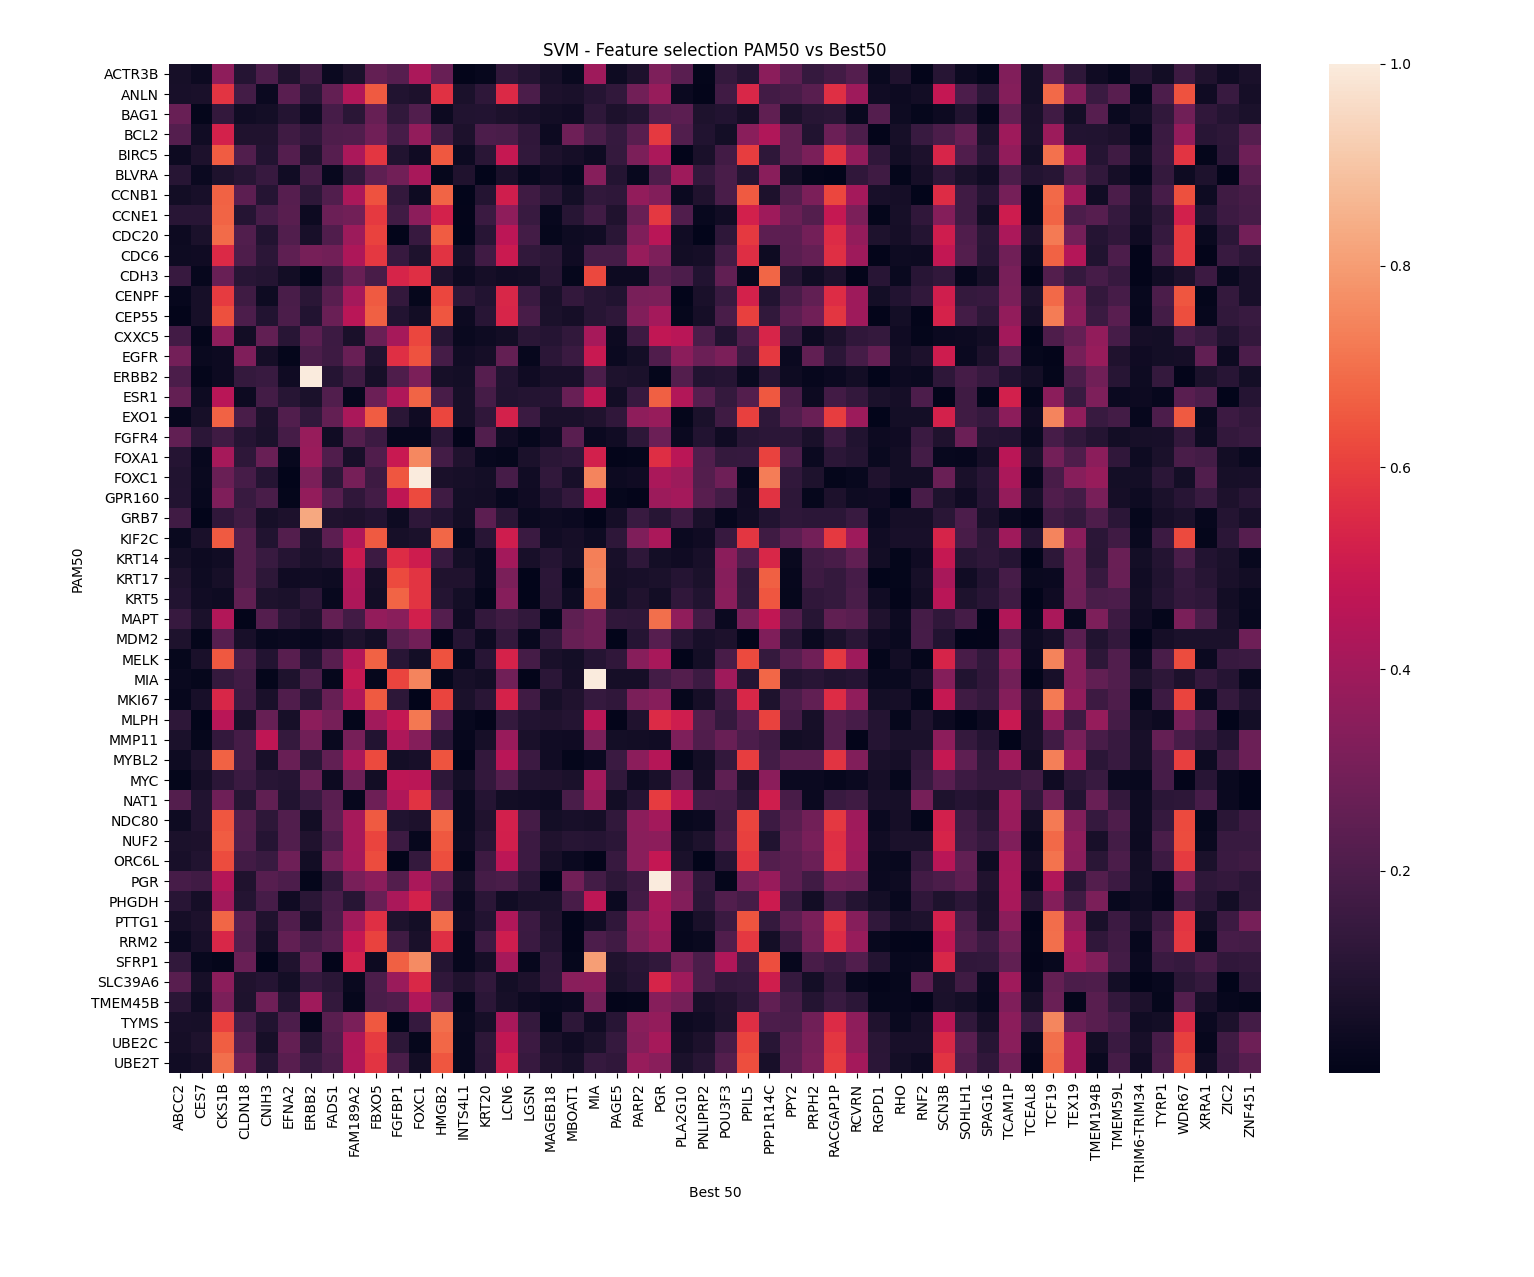
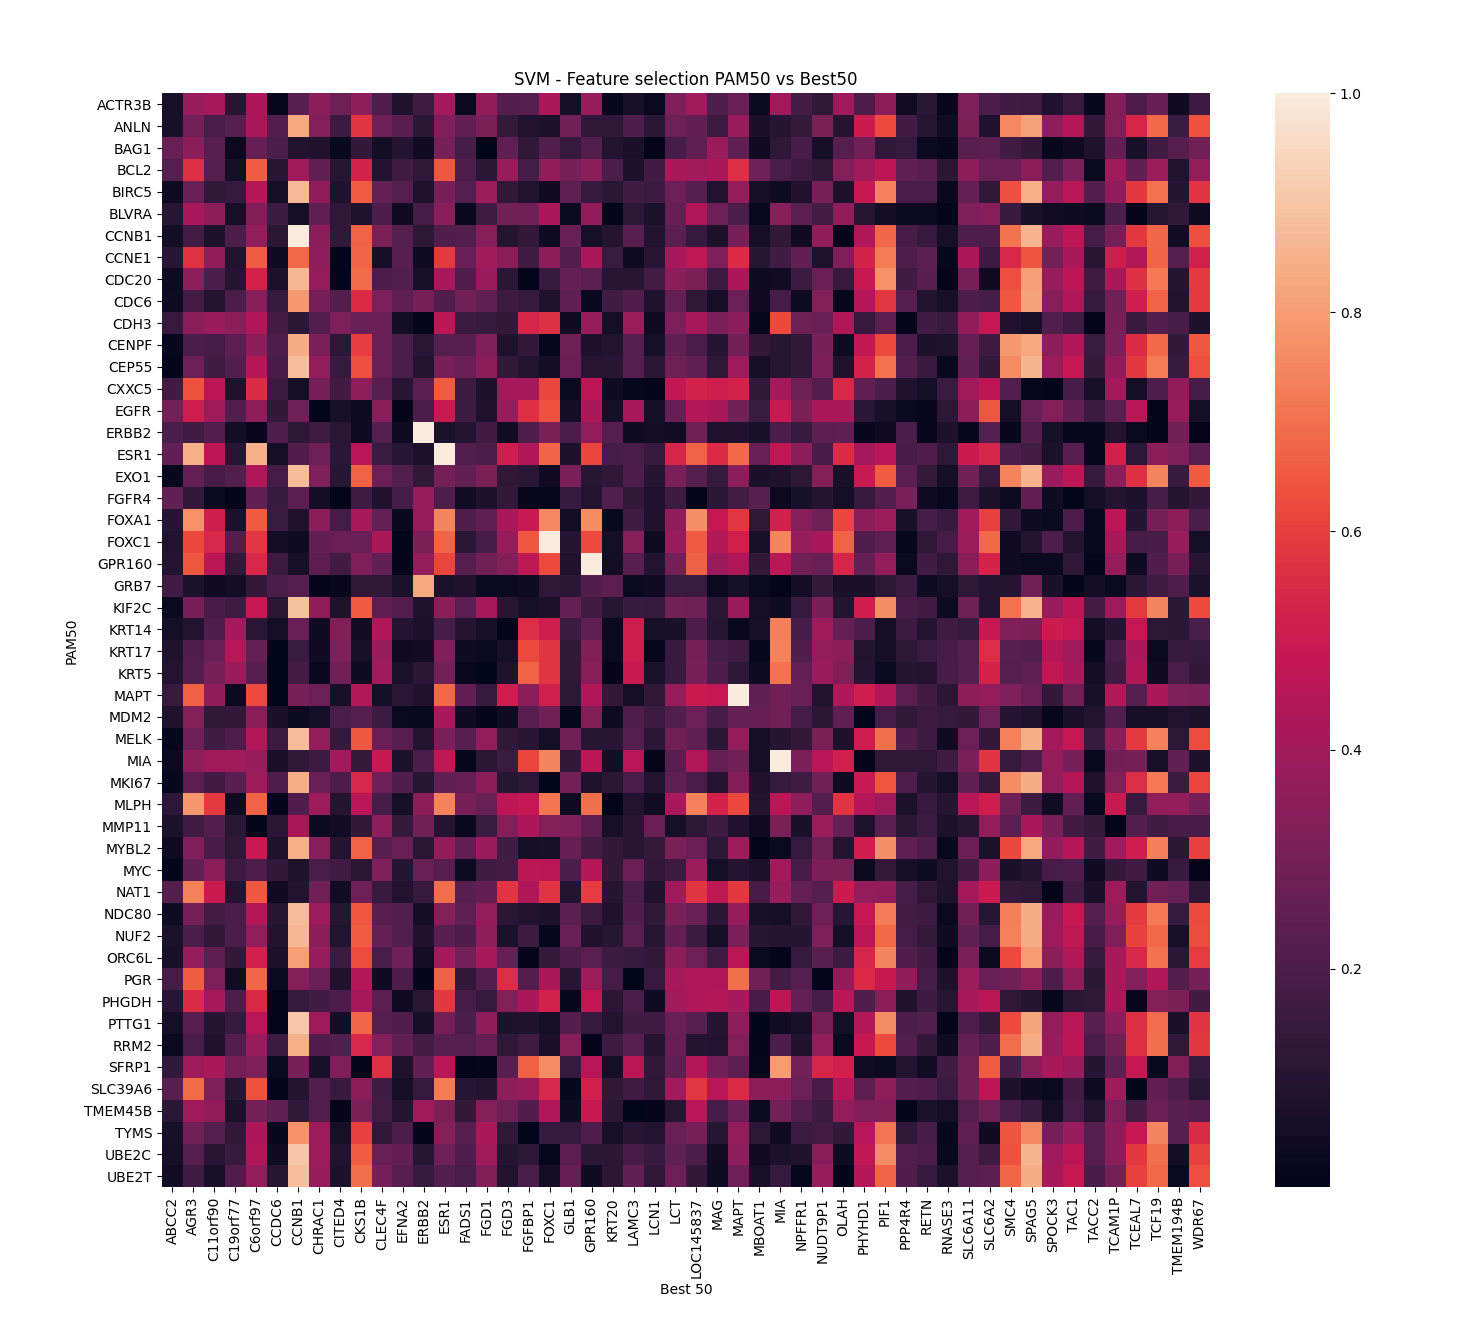
SVM update

diff --git a/Fix/svm.py b/Fix/svm.py
@@ -27,7 +27,15 @@ print("Ranking", selector.ranking_)
 f = selector.get_support(1)
 
 X = df.drop([i for i in X.columns.values if not i in f], axis=1)"""
-svm50 = ['TCEAL8', 'WDR67', 'KRT20', 'ERBB2', 'FAM189A2', 'PRPH2', 'PPIL5', 'INTS4L1', 'TEX19', 'PPP1R14C', 'SPAG16', 'LCN6', 'CKS1B', 'SOHLH1', 'ZIC2', 'MIA', 'PNLIPRP2', 'XRRA1', 'RACGAP1P', 'POU3F3', 'CLDN18', 'RCVRN', 'RGPD1', 'PLA2G10', 'FGFBP1', 'FBXO5', 'MBOAT1', 'CNIH3', 'FOXC1', 'PARP2', 'TMEM59L', 'FADS1', 'MAGEB18', 'TCAM1P', 'TCF19', 'SCN3B', 'RNF2', 'TYRP1', 'TMEM194B', 'PAGE5', 'RHO', 'ABCC2', 'PPY2', 'PGR', 'HMGB2', 'CES7', 'TRIM6-TRIM34', 'EFNA2', 'LGSN', 'ZNF451']
+#svm50 = ['TCEAL8', 'WDR67', 'KRT20', 'ERBB2', 'FAM189A2', 'PRPH2', 'PPIL5', 'INTS4L1', 'TEX19', 'PPP1R14C', 'SPAG16', 'LCN6', 'CKS1B', 'SOHLH1', 'ZIC2', 'MIA', 'PNLIPRP2', 'XRRA1', 'RACGAP1P', 'POU3F3', 'CLDN18', 'RCVRN', 'RGPD1', 'PLA2G10', 'FGFBP1', 'FBXO5', 'MBOAT1', 'CNIH3', 'FOXC1', 'PARP2', 'TMEM59L', 'FADS1', 'MAGEB18', 'TCAM1P', 'TCF19', 'SCN3B', 'RNF2', 'TYRP1', 'TMEM194B', 'PAGE5', 'RHO', 'ABCC2', 'PPY2', 'PGR', 'HMGB2', 'CES7', 'TRIM6-TRIM34', 'EFNA2', 'LGSN', 'ZNF451']
+svm50 = ['ABCC2', 'AGR3', 'C11orf90', 'C19orf77', 'C6orf97', 'CCDC6',
+       'CCNB1', 'CHRAC1', 'CITED4', 'CKS1B', 'CLEC4F', 'EFNA2', 'ERBB2',
+       'ESR1', 'FADS1', 'FGD1', 'FGD3', 'FGFBP1', 'FOXC1', 'GLB1',
+       'GPR160', 'KRT20', 'LAMC3', 'LCN1', 'LCT', 'LOC145837', 'MAG',
+       'MAPT', 'MBOAT1', 'MIA', 'NPFFR1', 'NUDT9P1', 'OLAH', 'PHYHD1',
+       'PIF1', 'PPP4R4', 'RETN', 'RNASE3', 'SLC6A11', 'SLC6A2', 'SMC4',
+       'SPAG5', 'SPOCK3', 'TAC1', 'TACC2', 'TCAM1P', 'TCEAL7', 'TCF19',
+       'TMEM194B', 'WDR67']
 
 X = X.drop([i for i in X.columns.values if not i in svm50], axis=1)
 

diff --git a/Fix/heatmap.py b/Fix/heatmap.py
@@ -4,8 +4,8 @@ import numpy as np
 import seaborn as sns
 import matplotlib.pyplot as plt
 
-name = "rand_0.8802378984109488"
-fine_name = "Random Forest"
+name = "svm_0.9326674014880133"
+fine_name = "SVM"
 
 with open("{}.json".format(name)) as f:
 	data = json.load(f)
